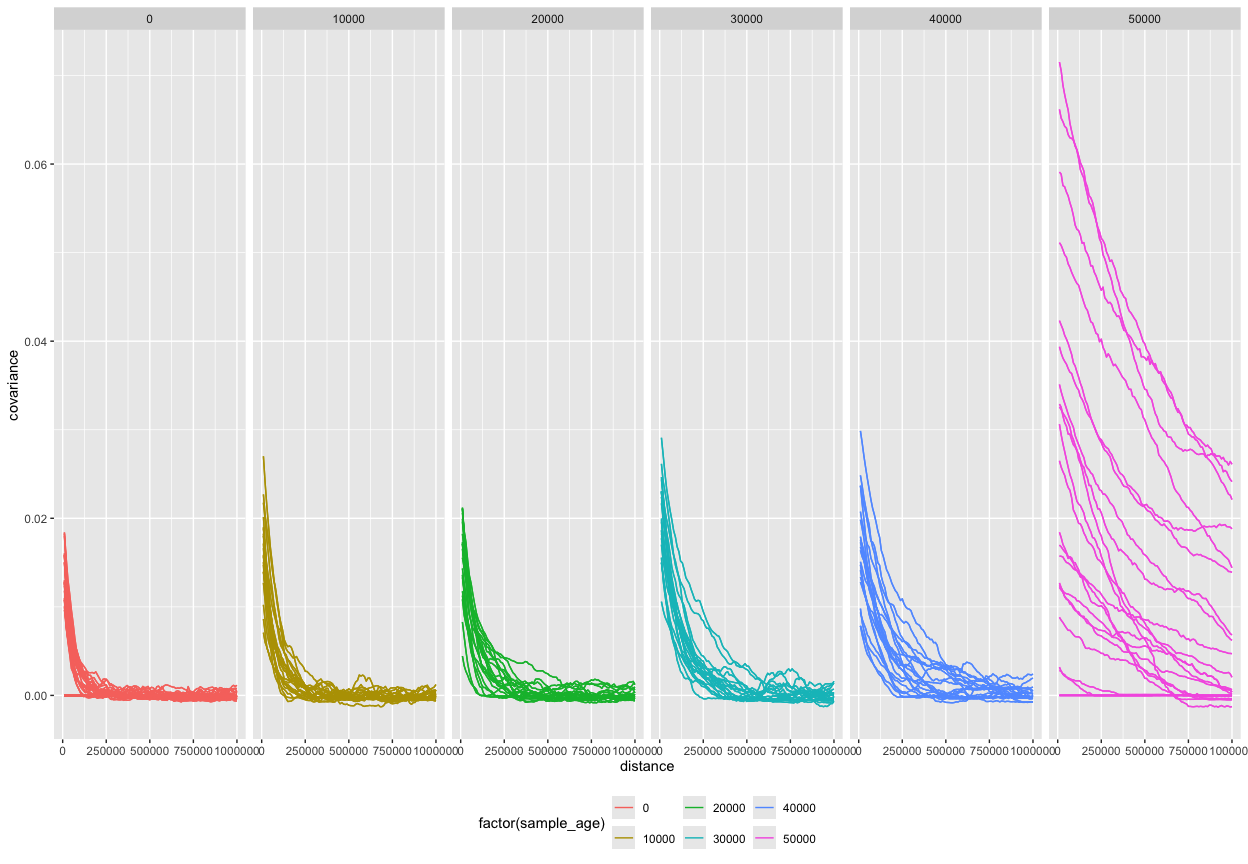
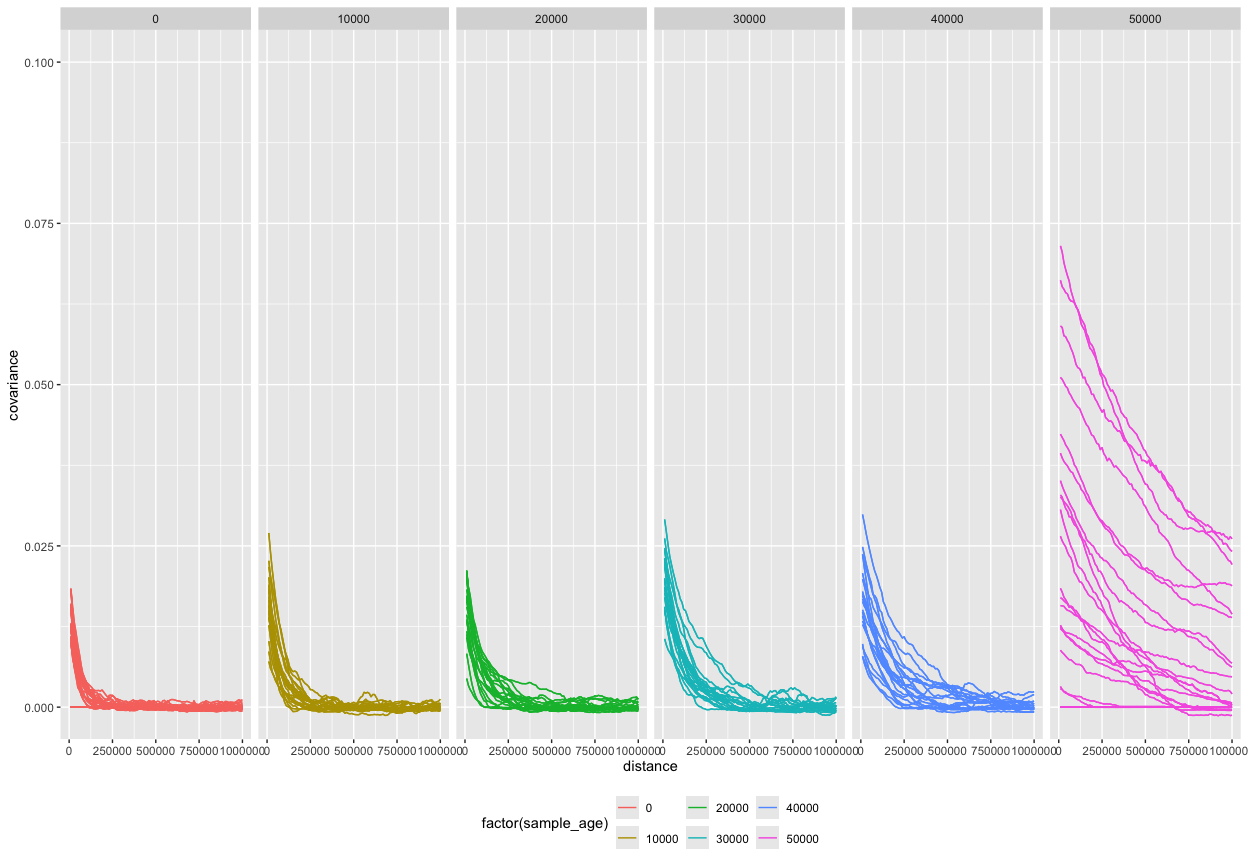
Unify y-axis scale

diff --git a/dating_LD.md b/dating_LD.md
@@ -256,7 +256,6 @@ if (file.exists(file)) {
   print(tend - tstart)
   saveRDS(pairs, file)
 }
-#> Time difference of 4.490613 mins
 ```
 
 ### Compute covariance in a given individual
@@ -276,7 +275,7 @@ cov_reg_df %>%
 ggplot() +
   geom_line(aes(distance, covariance, color = factor(sample_age), group = interaction(chrom, name))) +
   facet_grid(~ sample_age) +
-  coord_cartesian(xlim = c(0, max(distances))) +
+  coord_cartesian(xlim = c(0, max(distances)), ylim = c(0, 0.1)) +
   theme(legend.position = "bottom")
 ```
 
@@ -525,7 +524,6 @@ if (file.exists(file)) {
   print(tend - tstart)
   saveRDS(pairs, file)
 }
-#> Time difference of 22.84905 mins
 ```
 
 ``` r
@@ -539,7 +537,7 @@ cov_mut_df %>%
 ggplot() +
   geom_line(aes(distance, covariance, color = factor(sample_age), group = interaction(chrom, name))) +
   facet_grid(~ sample_age) +
-  coord_cartesian(xlim = c(0, max(distances))) +
+  coord_cartesian(xlim = c(0, max(distances)), ylim = c(0, 0.1)) +
   theme(legend.position = "bottom")
 ```
 
@@ -629,7 +627,6 @@ if (file.exists(file)) {
   print(tend - tstart)
   saveRDS(pairs, file)
 }
-#> Time difference of 24.49311 mins
 ```
 
 ``` r
@@ -650,7 +647,7 @@ cov_info_df %>%
 ggplot() +
   geom_line(aes(distance, covariance, color = factor(sample_age), group = interaction(chrom, name))) +
   facet_grid(~ sample_age) +
-  coord_cartesian(xlim = c(0, max(distances))) +
+  coord_cartesian(xlim = c(0, max(distances)), ylim = c(0, 0.1)) +
   theme(legend.position = "bottom")
 ```
 
